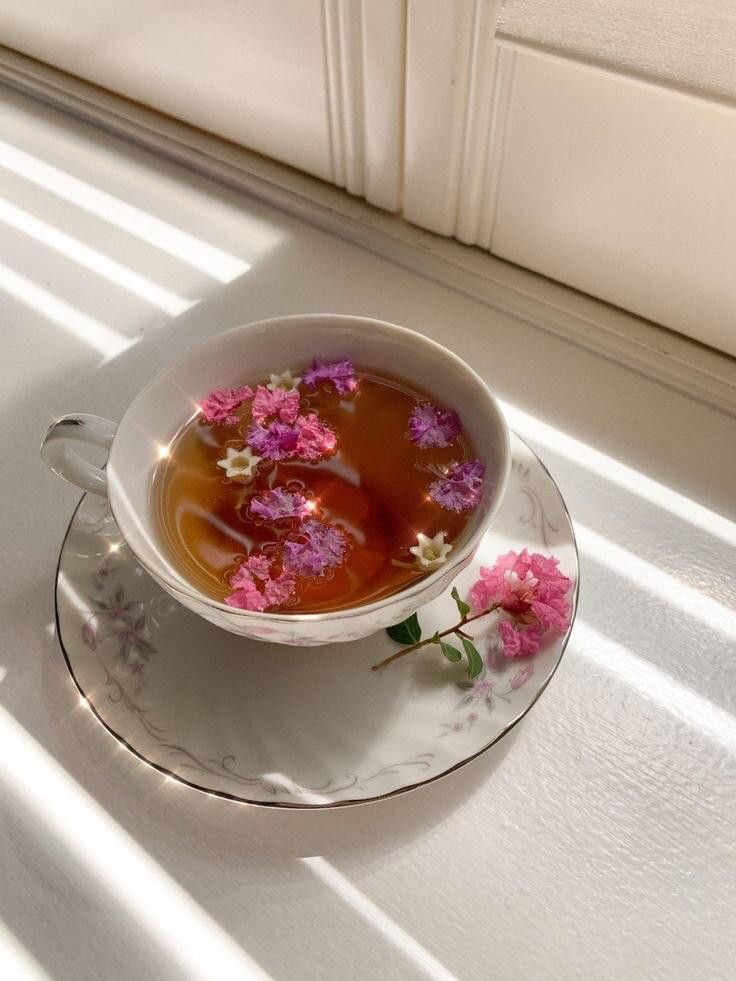
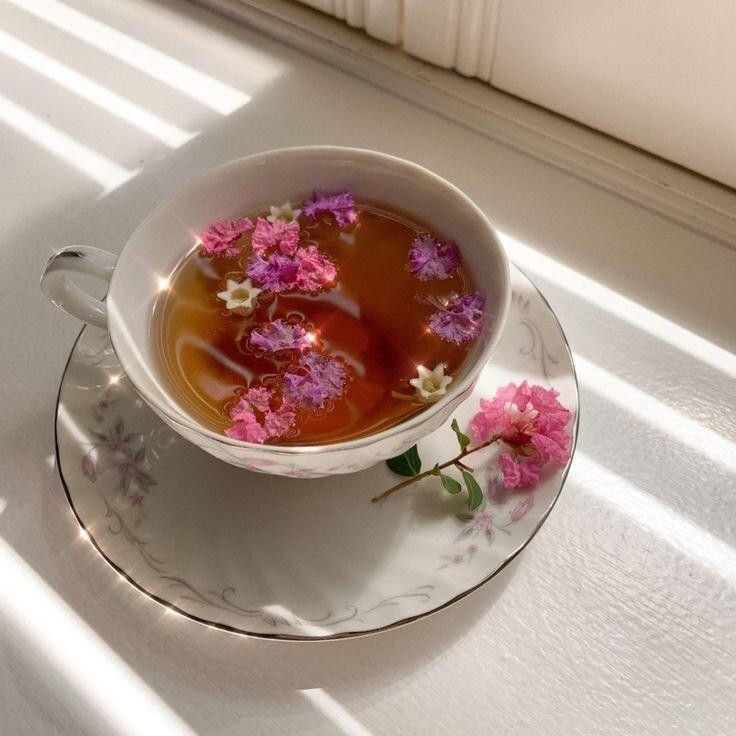
Se realizaron cambios

diff --git a/menu.html b/menu.html
@@ -15,9 +15,7 @@
         <div class="container">
             <div class="row align-items-center">
                 <div class="col-6 col-lg-3">
-                    <a href="index.html">
-                        <img src="imagenes/logo-cafe-aurora.png" alt="Café Aurora Logo" class="logo-cafe">
-                    </a>
+                    <img src="imagenes/logo-cafe-aurora.png" alt="Café Aurora Logo" class="logo-cafe">
                 </div>
                 <div class="col-6 col-lg-9">
                     <nav class="navbar navbar-expand-lg p-0">
@@ -76,14 +74,16 @@
                                     <div id="collapseOne" class="accordion-collapse collapse show"
                                         aria-labelledby="headingOne" data-bs-parent="#menuAccordion">
                                         <div class="accordion-body">
-                                            <div class="row align-items-center">
-                                                <div class="col-md-4 text-center">
+                                            <div class="row justify-content-center">
+                                                <div class="col-4 text-center">
                                                     <img src="imagenes/espresso.jpg"
                                                         class="img-fluid menu-item-img mb-3 mb-md-0" alt="Espresso">
                                                 </div>
-                                                <div class="col-md-8">
-                                                    <p class="lead mb-0">Intenso y puro, como el primer rocío del
-                                                        amanecer.</p>
+                                                <div class="row align-items-center">
+                                                    <div class="col text-center justify-text">
+                                                        <p class="lead mb-0">Refrescante y dulce, perfecto para volar en
+                                                            fantasía.</p>
+                                                    </div>
                                                 </div>
                                             </div>
                                         </div>
@@ -101,11 +101,13 @@
                                         aria-labelledby="headingTwo" data-bs-parent="#menuAccordion">
                                         <div class="accordion-body">
                                             <div class="row align-items-center">
-                                                <div class="col-md-4 text-center">
+                                                <div class="col-4 text-center">
                                                     <img src="imagenes/americano.jpg"
                                                         class="img-fluid menu-item-img mb-3 mb-md-0" alt="Americano">
                                                 </div>
-                                                <div class="col-md-8">
+                                            </div>
+                                            <div class="row align-items-center">
+                                                <div class="col">
                                                     <p class="lead mb-0">Ligero y tranquilo, como agua en calma.</p>
                                                 </div>
                                             </div>
@@ -235,17 +237,161 @@
                         </div>
                     </div>
                 </div>
+                <!--Bebidas Frias-->
                 <div class="col-6">
                     <h3 class="text-center">Bebidas Frias</h3>
+                    <div class="row">
+                        <div class="col-12">
+                            <div class="accordion accordion-flush" id="menuAccordion">
+                                <div class="accordion-item">
+                                    <h2 class="accordion-header" id="headingOne">
+                                        <button class="accordion-button" type="button" data-bs-toggle="collapse"
+                                            data-bs-target="#collapseOne" aria-expanded="true"
+                                            aria-controls="collapseOne">
+                                            Frappé - Sueño Encantado <span class="price-tag">Q27</span>
+                                        </button>
+                                    </h2>
+                                    <div id="collapseOne" class="accordion-collapse collapse show"
+                                        aria-labelledby="headingOne" data-bs-parent="#menuAccordion">
+                                        <div class="accordion-body">
+                                            <div class="row justify-content-center">
+                                                <div class="col-4 text-center">
+                                                    <img src="imagenes/frappe.jpg"
+                                                        class="img-fluid menu-item-img mb-3 mb-md-0" alt="Frappe">
+                                                </div>
+                                                <div class="row align-items-center">
+                                                    <div class="col text-center justify-text">
+                                                        <p class="lead mb-0">Refrescante y dulce, perfecto para volar en
+                                                            fantasía.</p>
+                                                    </div>
+                                                </div>
+                                            </div>
+                                        </div>
+                                    </div>
+                                </div>
+                                <div class="accordion-item">
+                                    <h2 class="accordion-header" id="headingTwo">
+                                        <button class="accordion-button collapsed" type="button"
+                                            data-bs-toggle="collapse" data-bs-target="#collapseTwo"
+                                            aria-expanded="false" aria-controls="collapseTwo">
+                                            Smoothie - Aura Mágica<span class="price-tag">Q28</span>
+                                        </button>
+                                    </h2>
+                                    <div id="collapseTwo" class="accordion-collapse collapse"
+                                        aria-labelledby="headingTwo" data-bs-parent="#menuAccordion">
+                                        <div class="accordion-body">
+                                            <div class="row align-items-center">
+                                                <div class="col-md-4 text-center">
+                                                    <img src="imagenes/smoothie.jpg"
+                                                        class="img-fluid menu-item-img mb-3 mb-md-0" alt="smoothie">
+                                                </div>
+                                                <div class="col-md-8">
+                                                    <p class="lead mb-0">Frutas vibrantes llenas de energía mágica.</p>
+                                                </div>
+                                            </div>
+                                        </div>
+                                    </div>
+                                </div>
+                                <div class="accordion-item">
+                                    <h2 class="accordion-header" id="headingThree">
+                                        <button class="accordion-button collapsed" type="button"
+                                            data-bs-toggle="collapse" data-bs-target="#collapseThree"
+                                            aria-expanded="false" aria-controls="collapseThree">
+                                            Cold Brew - Reflejo del Agua <span class="price-tag">Q22</span>
+                                        </button>
+                                    </h2>
+                                    <div id="collapseThree" class="accordion-collapse collapse"
+                                        aria-labelledby="headingThree" data-bs-parent="#menuAccordion">
+                                        <div class="accordion-body">
+                                            <div class="row align-items-center">
+                                                <div class="col-md-4 text-center">
+                                                    <img src="imagenes/coldbrew.jpg"
+                                                        class="img-fluid menu-item-img mb-3 mb-md-0" alt="Cold Brew">
+                                                </div>
+                                                <div class="col-md-8">
+                                                    <p class="lead mb-0">Suave y profundo como un lago.</p>
+                                                </div>
+                                            </div>
+                                        </div>
+                                    </div>
+                                </div>
+                                <div class="accordion-item">
+                                    <h2 class="accordion-header" id="headingFour">
+                                        <button class="accordion-button collapsed" type="button"
+                                            data-bs-toggle="collapse" data-bs-target="#collapseFour"
+                                            aria-expanded="false" aria-controls="collapseFour">
+                                            Iced Latte - Luz de Aurora <span class="price-tag">Q24</span>
+                                        </button>
+                                    </h2>
+                                    <div id="collapseFour" class="accordion-collapse collapse"
+                                        aria-labelledby="headingFour" data-bs-parent="#menuAccordion">
+                                        <div class="accordion-body">
+                                            <div class="row align-items-center">
+                                                <div class="col-md-4 text-center">
+                                                    <img src="imagenes/icedlatte.jpg"
+                                                        class="img-fluid menu-item-img mb-3 mb-md-0" alt="Iced Latte">
+                                                </div>
+                                                <div class="col-md-8">
+                                                    <p class="lead mb-0">Refrescante y delicado con un toque dulce.</p>
+                                                </div>
+                                            </div>
+                                        </div>
+                                    </div>
+                                </div>
+                                <div class="accordion-item">
+                                    <h2 class="accordion-header" id="headingFive">
+                                        <button class="accordion-button collapsed" type="button"
+                                            data-bs-toggle="collapse" data-bs-target="#collapseFive"
+                                            aria-expanded="false" aria-controls="collapseFive">
+                                            Limonada - Luz de Sol <span class="price-tag">Q16</span>
+                                        </button>
+                                    </h2>
+                                    <div id="collapseFive" class="accordion-collapse collapse"
+                                        aria-labelledby="headingFive" data-bs-parent="#menuAccordion">
+                                        <div class="accordion-body">
+                                            <div class="row align-items-center">
+                                                <div class="col-md-4 text-center">
+                                                    <img src="imagenes/limonada.jpg"
+                                                        class="img-fluid menu-item-img mb-3 mb-md-0" alt="Limonada">
+                                                </div>
+                                                <div class="col-md-8">
+                                                    <p class="lead mb-0">Refrescante y brillante.
+                                                    </p>
+                                                </div>
+                                            </div>
+                                        </div>
+                                    </div>
+                                </div>
+                                <div class="accordion-item">
+                                    <h2 class="accordion-header" id="headingSix">
+                                        <button class="accordion-button collapsed" type="button"
+                                            data-bs-toggle="collapse" data-bs-target="#collapseSix"
+                                            aria-expanded="false" aria-controls="collapseSix">
+                                            Té frío - Viento del Valle <span class="price-tag">Q16</span>
+                                        </button>
+                                    </h2>
+                                    <div id="collapseSix" class="accordion-collapse collapse"
+                                        aria-labelledby="headingSix" data-bs-parent="#menuAccordion">
+                                        <div class="accordion-body">
+                                            <div class="row align-items-center">
+                                                <div class="col-md-4 text-center">
+                                                    <img src="imagenes/tefrio.jpg"
+                                                        class="img-fluid menu-item-img mb-3 mb-md-0" alt="Té frío">
+                                                </div>
+                                                <div class="col-md-8">
+                                                    <p class="lead mb-0">Ligero y refrescante como una brisa suave.</p>
+                                                </div>
+                                            </div>
+                                        </div>
+                                    </div>
+                                </div>
+                            </div>
+                        </div>
+                    </div>
                 </div>
-
             </div>
-
         </div>
-
-
     </main>
-
     <footer class="footer-aurora">
         <div class="container">
             <div class="footer-content">

diff --git a/styles/menu-promociones.css b/styles/menu-promociones.css
@@ -22,7 +22,8 @@ body {
 }
 
 .logo-cafe {
-    height: 80px; /* Tamaño mediano */
+    height: 80px;
+    /* Tamaño mediano */
     width: auto;
     transition: transform 0.3s ease;
 }
@@ -162,7 +163,7 @@ body {
 
 .menu-item-img {
     border-radius: 12px;
-    box-shadow: 0 4px 8px rgba(0,0,0,0.1);
+    box-shadow: 0 4px 8px rgba(0, 0, 0, 0.1);
 }
 
 .price-tag {
@@ -178,4 +179,7 @@ body {
     background-color: var(--aurora-white);
     color: var(--aurora-maroon);
 }
-
+
+.justify-text {
+    text-align: justify;
+}